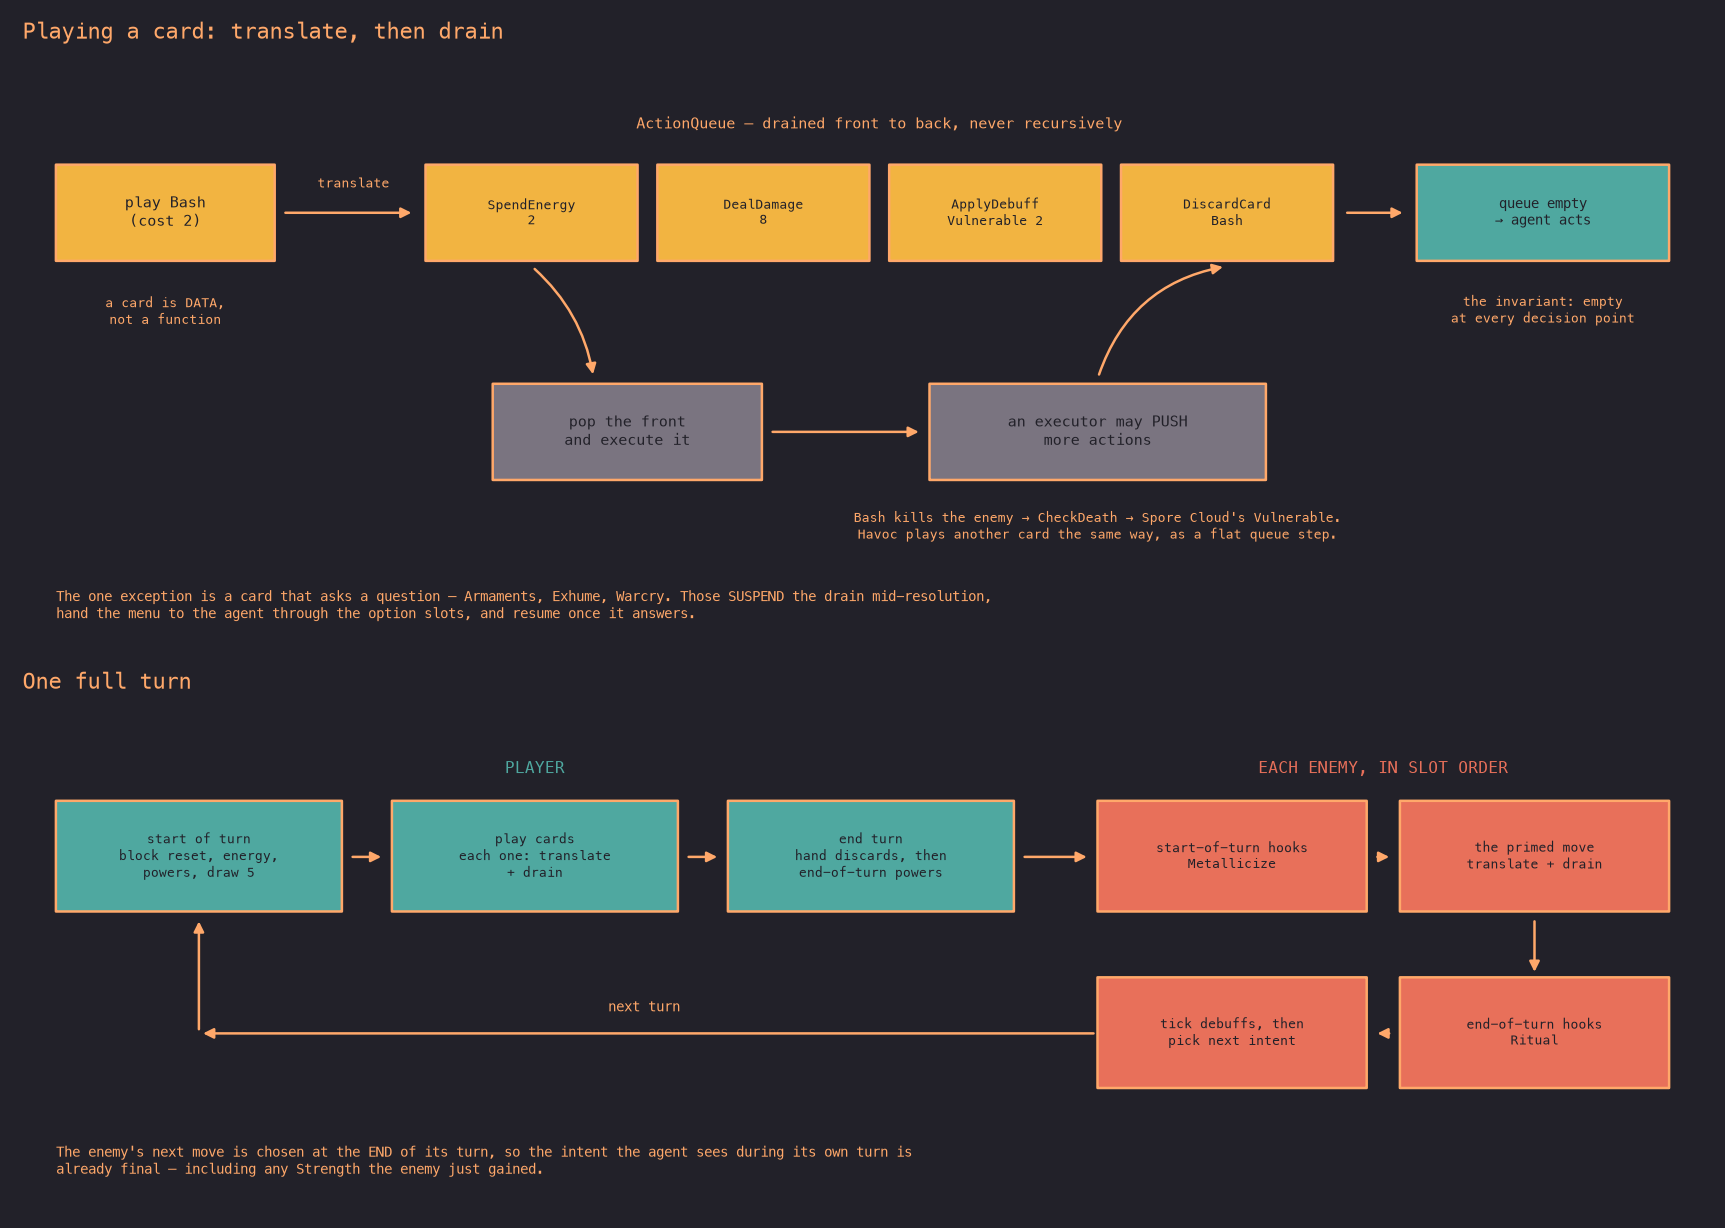
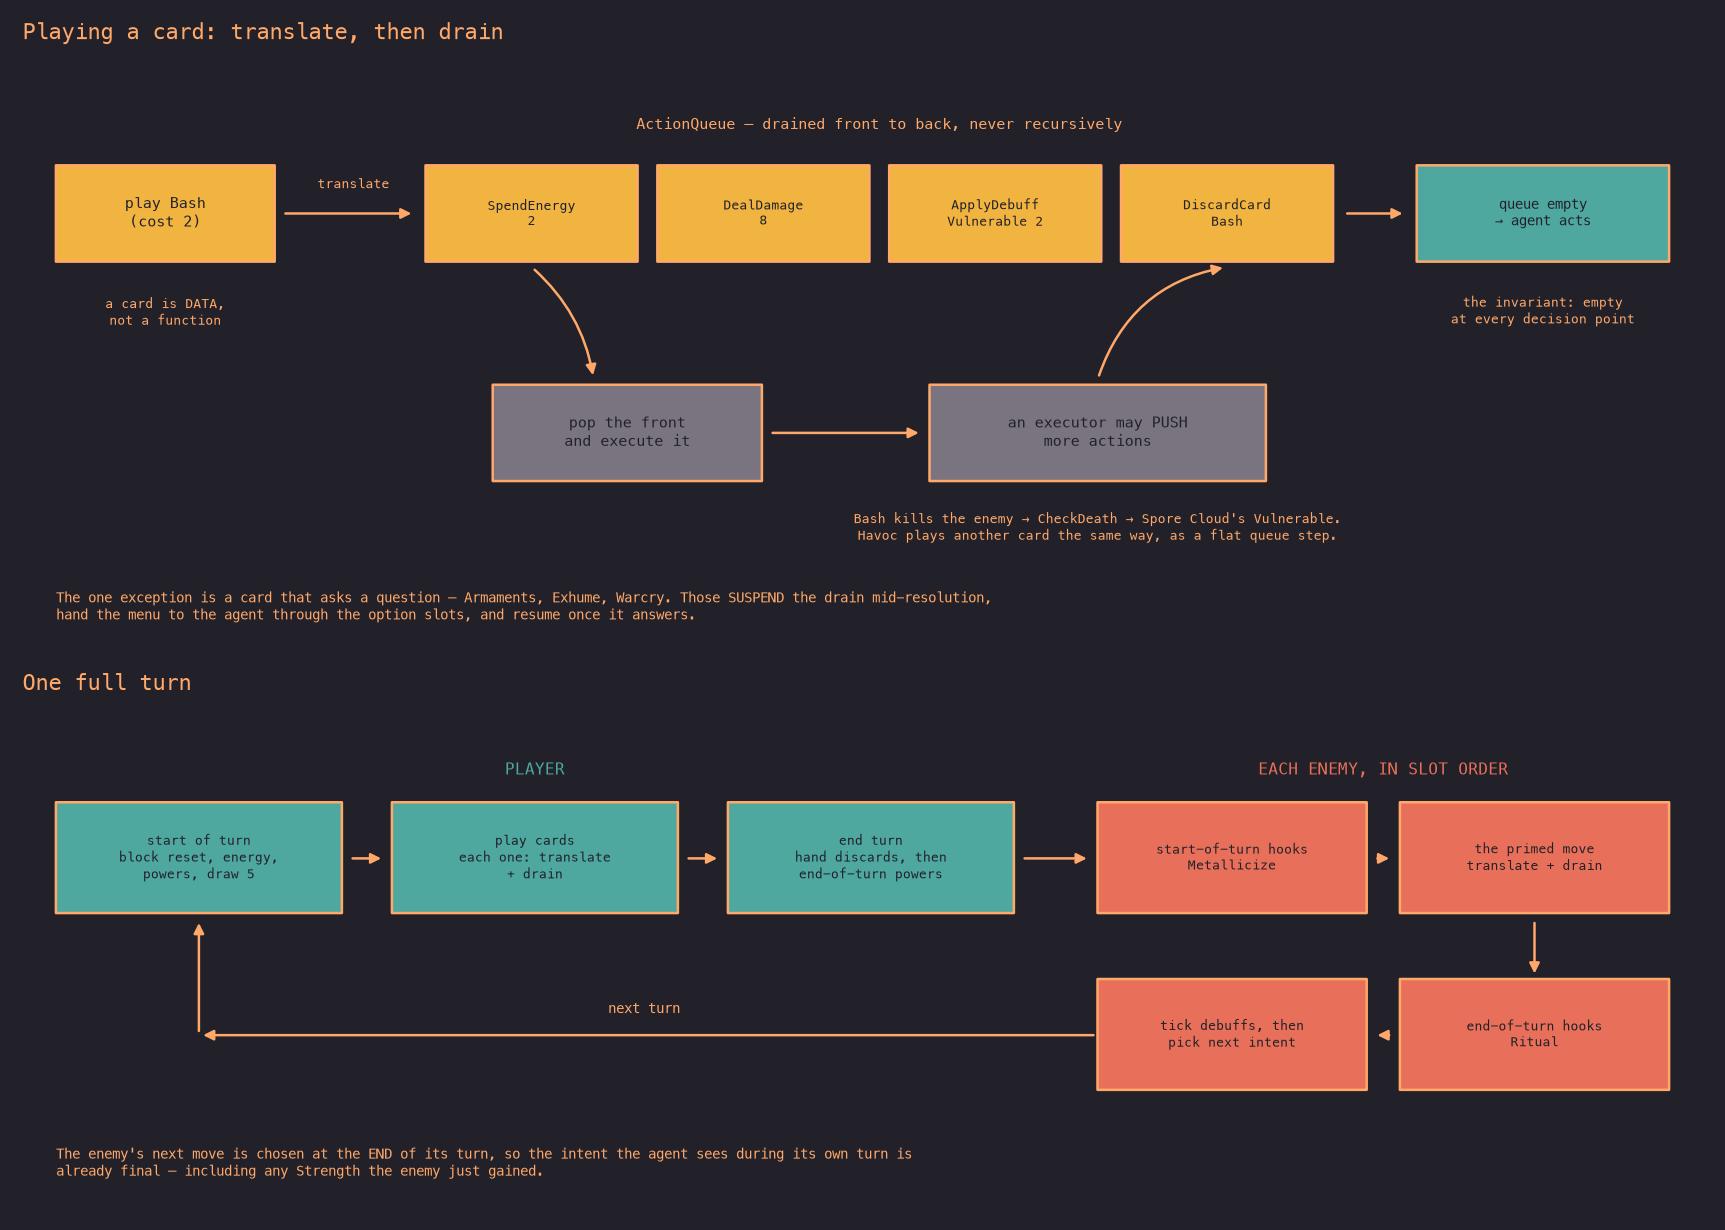
ROB-86: final README pass before v1.0.0
The README is the PyPI landing page, so a review found the things that
only matter once strangers read it.

Three were factually wrong. "Requires Python 3.12" had been true until
this morning. `--seed` was documented as a flag two lines below the block
showing it as positional. And there was no `pip install minispire` at all
— the install section documented editable source installs only, so a
visitor arriving from PyPI had no line that applied to them.

All four figures in assets/ were stale against the generator.
obs_layout now shows 1772 with intent(7) and kind(23); action_space
correctly still reads Discrete(1136), because ROB-96 widened the
observation and left the action space alone.

Dropped the intro-post blurb. It advertised a ~14.7k-parameter agent
winning 100% of the time, measured when the observation was 45 floats and
the pool was 6 cards. It is 1772 and 189 now, with multi-enemy encounters
and the full Act 1 roster — the same agent would not reproduce it, and
that was the strongest claim on the page.

Also: keyboard controls (documented nowhere before), the directories the
layout block omitted, and PyPI sidebar links — Repository alone left it
nearly empty, and Changelog is the one a user wants when deciding whether
to upgrade.

Removed assets/throughput.png: nothing referenced it and its training
bars predate the current environment. Still generated into blog/figures.

189 Python tests, 447 C++.
[…]

Changed region(s): [[0.6759, 0.6808, 0.7374, 0.7117], [0.553, 0.1547, 0.5838, 0.1857], [0.0922, 0.1547, 0.1229, 0.1857]]

diff --git a/README.md b/README.md
@@ -18,11 +18,6 @@ using a standard Gymnasium interface — action masking included.
 keystrokes are derived from a real playthrough (`analysis/derive_demo_line.py`)
 rather than transcribed, so the recording re-renders identically.</sub>
 
-> **Read the intro write-up:** [Mini-spire: a fast Slay the Spire RL environment
-> in C++](https://rhp.bearblog.dev) — the story, the design choices, and the M1
-> result (a ~14.7k-parameter PPO agent that wins 100% of the time, trained in
-> ~4 minutes on an M1 MacBook).
-
 ## Highlights
 
 - ⚡ **Fast** — **~259k environment steps/sec** end to end through the Python
@@ -74,27 +69,35 @@ Map traversal, card rewards, and relics are on the roadmap.
 
 ## Install
 
+```bash
+pip install minispire
+```
+
+Wheels are published for CPython 3.11–3.13 on macOS (Apple Silicon) and Linux
+(x86_64). Anywhere else builds from the source distribution, which needs a
+C++17 compiler and CMake ≥ 3.16.
+
+That gives you the engine and the Gymnasium environment and nothing else. The
+terminal UI and the training stack are opt-in, so training a policy does not
+drag a rendering library along with it:
+
+```bash
+pip install "minispire[tui]"      # human play, the policy viewer, env.render()
+pip install "minispire[train]"    # MaskablePPO, torch, W&B
+```
+
+### From source
+
 `uv` is the package manager. ([install uv](https://docs.astral.sh/uv/))
 
 ```bash
 uv venv --python 3.12
-uv pip install -e ".[dev]"        # engine + training + dev extras
+uv pip install -e ".[dev]"        # engine + TUI + training + dev extras
 uv run python -c "import minispire"
 ```
 
 The C++ extension builds automatically via scikit-build-core on install. After
 changing C++ sources, re-run `uv pip install -e .` to rebuild.
-
-A bare install gives you the engine and the Gymnasium environment and nothing
-else. The terminal UI lives behind the `tui` extra, so training a policy does
-not drag a rendering stack along with it; `[dev]` above already includes it.
-
-```bash
-uv pip install -e ".[tui]"        # human play, the policy viewer, env.render()
-uv pip install -e ".[train]"      # MaskablePPO, torch, W&B
-```
-
-Requires Python 3.12, a C++17 compiler, and CMake ≥ 3.16.
 
 ## Quickstart
 
@@ -109,9 +112,12 @@ uv run minispire-play --config fights/showcase.yaml               # deck that ex
                                                                  # choices, exhaust, growth
 ```
 
-Flags (`--pool weak|strong|elite`, `--deck`, `--seed`) are the quick path; a
-`--config <yaml>` file (keys `seed` / `pool` / `deck`) is the reusable-scenario
-layer, and CLI flags override it.
+The seed is positional; `--pool weak|strong|elite` and `--deck` are the quick
+path. A `--config <yaml>` file (keys `seed` / `pool` / `deck`) is the
+reusable-scenario layer, and CLI flags override it.
+
+Arrow keys move the selection and Enter plays it, or press a card's number
+directly. `p` opens the piles, `q` quits.
 
 **Use the environment in Python** — it's a standard Gymnasium env:
 
@@ -259,11 +265,14 @@ See [architecture.md](architecture.md) for detail.
 src/         C++ engine — headers (.h) + implementations (.cc)
 bindings/    pybind11 module (_core)
 python/
-  minispire/ public Python API: env.py (Gymnasium), play/train/eval entry points
+  minispire/ public Python API: env.py (Gymnasium), the Textual TUI, entry points
   tests/     pytest suite
 tests/       GoogleTest C++ unit tests
+docs/design/ why the engine is shaped the way it is
+benchmarks/  throughput harness + published numbers
+fights/      saved play scenarios (--config)
 configs/     training configs (YAML)
-analysis/    blog/figure-generation tooling
+analysis/    figure generation + tooling
 ```
 
 ## Development
